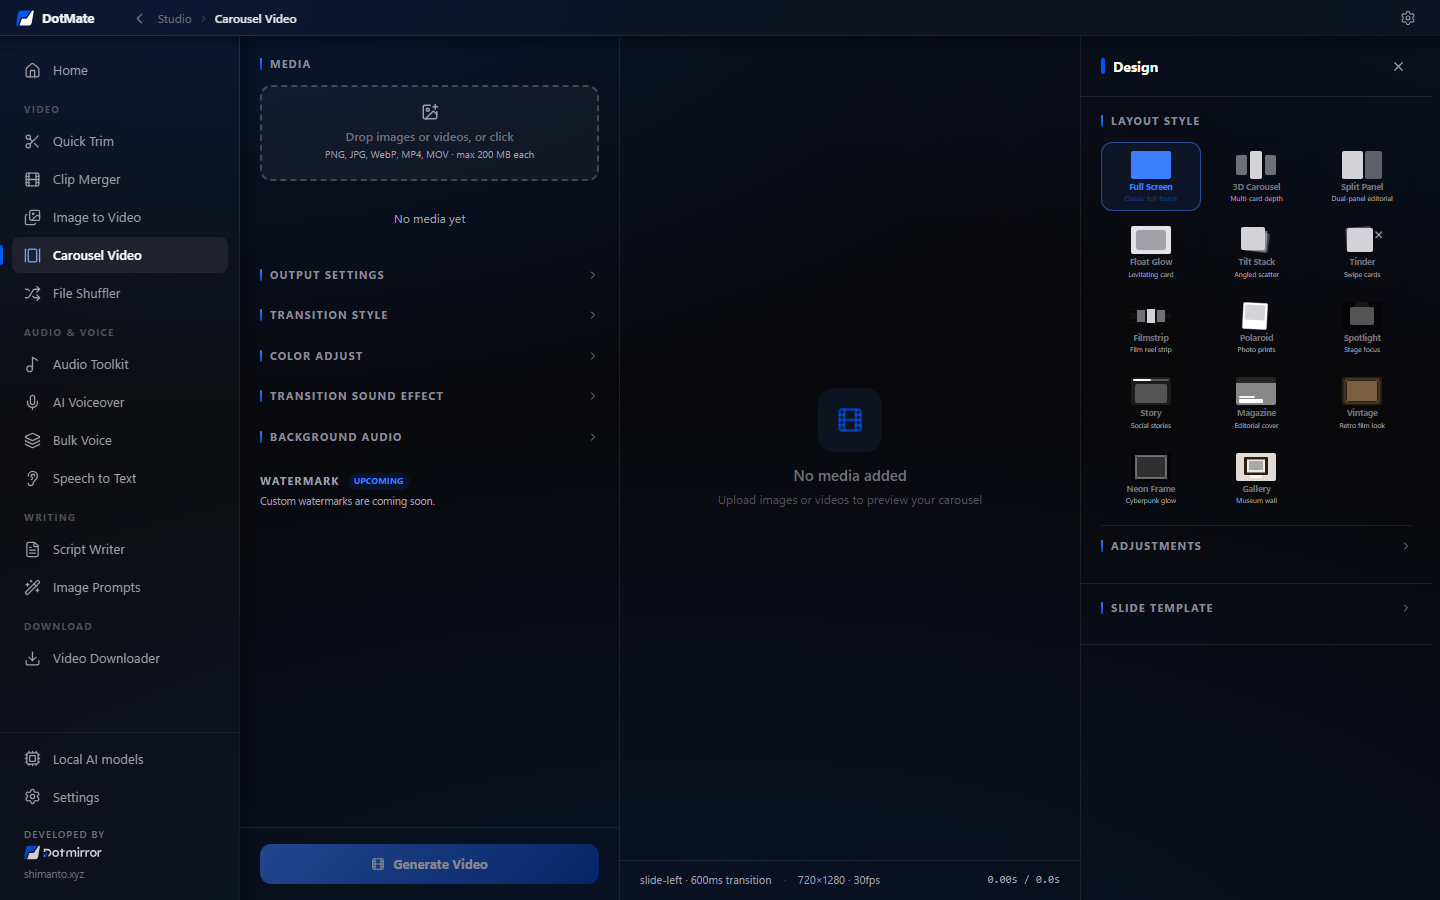
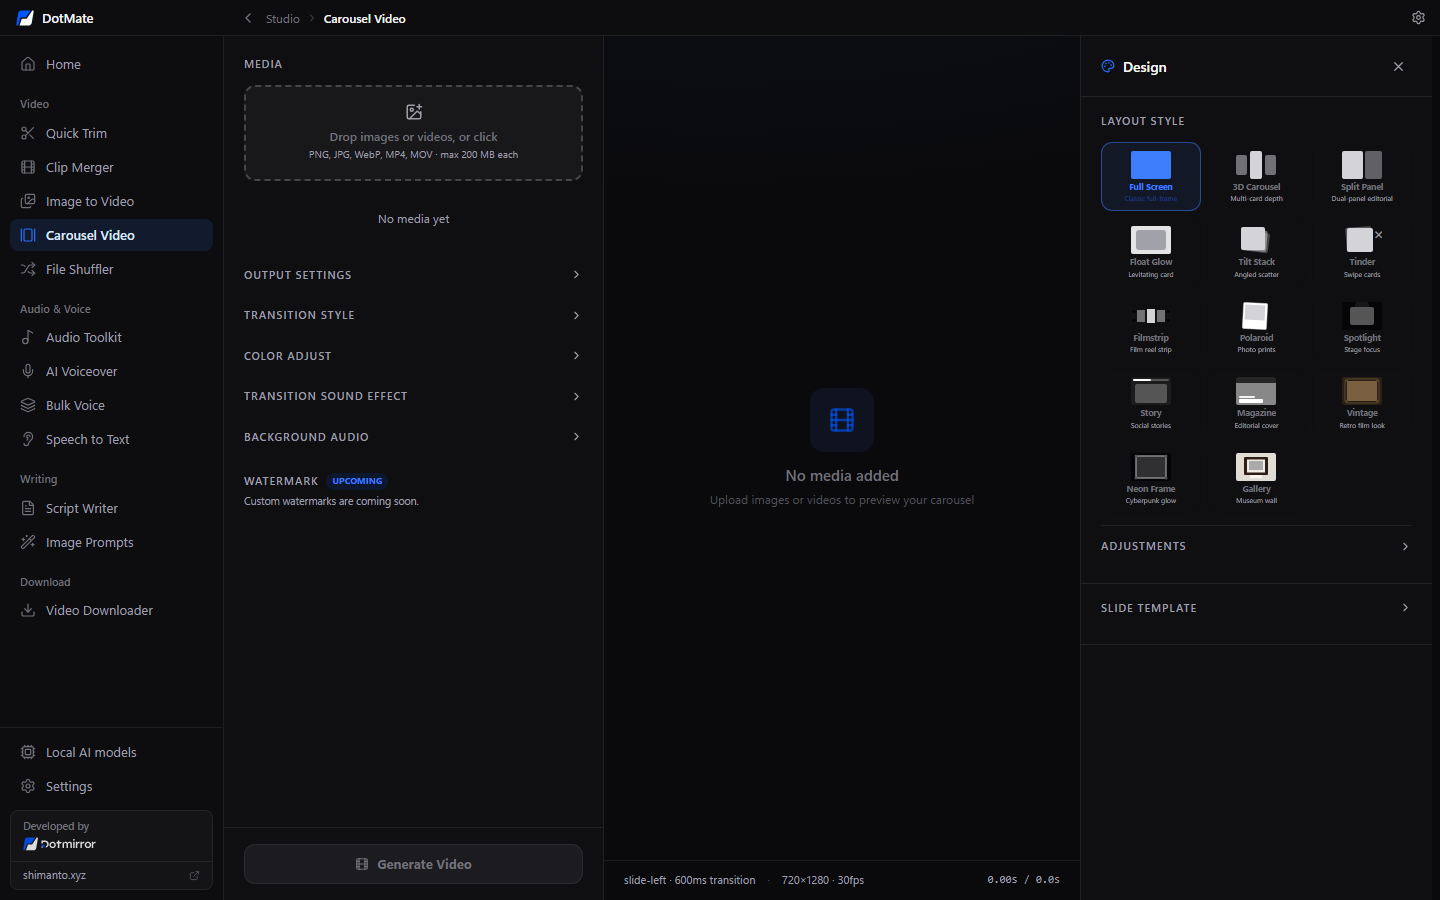
docs: new screenshots, social preview and API-key wording
- Retake all nine README/site screenshots and the social preview in the new
  design.
- "No cloud" -> "No cloud required" everywhere, and document the optional
  API-key brains in the README, website, architecture notes and changelog.

diff --git a/docs/index.html b/docs/index.html
@@ -4,7 +4,7 @@
 <meta charset="utf-8">
 <meta name="viewport" content="width=device-width, initial-scale=1">
 <title>DotMate — Free Offline Video, Voice &amp; AI Toolbox for Creators (Open Source)</title>
-<meta name="description" content="DotMate is a free, open-source Windows app for creators: trim and merge videos, image and carousel to video, YouTube &amp; TikTok downloader, offline Whisper speech-to-text, Kokoro text-to-speech and local AI script writing. No account, no cloud.">
+<meta name="description" content="DotMate is a free, open-source Windows app for creators: trim and merge videos, image and carousel to video, YouTube &amp; TikTok downloader, offline Whisper speech-to-text, Kokoro text-to-speech and local AI script writing. No account, no cloud required.">
 <meta name="keywords" content="free video editor, offline text to speech, whisper speech to text app, kokoro tts, youtube downloader gui, yt-dlp gui, image to video, carousel video maker, ai script writer, ollama, local ai, open source, windows, content creator tools">
 <meta name="author" content="Shimanto, DotMirror">
 <meta name="robots" content="index, follow, max-image-preview:large">
@@ -25,7 +25,7 @@
 <meta property="og:image:alt" content="DotMate app screenshot and logo">
 <meta name="twitter:card" content="summary_large_image">
 <meta name="twitter:title" content="DotMate — Free Offline Video, Voice & AI Toolbox">
-<meta name="twitter:description" content="Open-source creator toolbox that runs 100% on your computer. No account, no cloud.">
+<meta name="twitter:description" content="Open-source creator toolbox that runs 100% on your computer. No account, no cloud required.">
 <meta name="twitter:image" content="https://shimentosh.github.io/dotmate/assets/social-preview.png">
 
 <script type="application/ld+json">
@@ -245,7 +245,7 @@ footer nav{display:flex;gap:18px;flex-wrap:wrap}
       <a class="btn btn-primary" href="https://github.com/shimentosh/dotmate/releases/latest"><svg aria-hidden="true"><use href="#i-dl"/></svg>Download for Windows</a>
       <a class="btn btn-ghost" href="https://github.com/shimentosh/dotmate"><svg aria-hidden="true"><use href="#i-gh"/></svg>Star on GitHub</a>
     </div>
-    <p class="meta">Windows 10 &amp; 11 · ~12 MB installer · No account · No cloud · No telemetry</p>
+    <p class="meta">Windows 10 &amp; 11 · ~12 MB installer · No account · No cloud required · No telemetry</p>
     <img class="shot" src="assets/screenshots/home.png" width="1440" height="900" alt="DotMate home screen with video, audio, voice, writing and download tools" fetchpriority="high">
     <div class="strip">
       <div><strong>12</strong><span>tools in one app</span></div>
@@ -319,7 +319,7 @@ footer nav{display:flex;gap:18px;flex-wrap:wrap}
     <div class="split">
       <ul class="list">
         <li><svg><use href="#i-check"/></svg><div><b>No account, no login</b><span>Open the app and start working.</span></div></li>
-        <li><svg><use href="#i-check"/></svg><div><b>No uploads, no telemetry</b><span>The app's security policy blocks every remote connection except a local Ollama.</span></div></li>
+        <li><svg><use href="#i-check"/></svg><div><b>No uploads, no telemetry</b><span>The app's security policy blocks every remote connection except a local Ollama. Cloud AI is strictly optional — it only runs if you add your own API key.</span></div></li>
         <li><svg><use href="#i-check"/></svg><div><b>Works offline</b><span>After setup, every tool except the downloader works without internet.</span></div></li>
         <li><svg><use href="#i-check"/></svg><div><b>Open source</b><span>Every line is on GitHub under the MIT licence — audit it, fork it, improve it.</span></div></li>
       </ul>
@@ -328,7 +328,7 @@ footer nav{display:flex;gap:18px;flex-wrap:wrap}
         <tbody>
           <tr><td>Speech to text</td><td>whisper.cpp <small>· tiny / base / small</small></td></tr>
           <tr><td>Text to speech</td><td>Kokoro-82M via sherpa-onnx <small>· ~330 MB</small></td></tr>
-          <tr><td>Script writing</td><td>Ollama (Llama 3.2, Qwen 2.5…) or Claude Code / Codex / Gemini CLI</td></tr>
+          <tr><td>Script writing</td><td>Ollama (Llama 3.2, Qwen 2.5…) or Claude Code / Codex / Gemini CLI — or, optionally, your own Claude, OpenAI, Gemini or OpenRouter API key</td></tr>
           <tr><td>Video &amp; audio</td><td>WebCodecs + FFmpeg</td></tr>
           <tr><td>Downloads</td><td>yt-dlp</td></tr>
         </tbody>
@@ -363,7 +363,8 @@ pnpm tauri:build</pre>
       <details><summary>Is DotMate really free?</summary><p>Yes. DotMate is free and open source under the MIT licence. There are no credits, watermarks, accounts or paid tiers.</p></details>
       <details><summary>Does DotMate work offline?</summary><p>Yes. After a one-time download of FFmpeg and the AI models you choose, every tool except the Video Downloader works without internet.</p></details>
       <details><summary>Are my videos or voice recordings uploaded?</summary><p>No. All processing happens on your computer. DotMate has no server, no login and no telemetry.</p></details>
-      <details><summary>Do I need a GPU for the AI tools?</summary><p>No. Whisper and Kokoro run on a normal CPU. Ollama models run faster with a GPU, but small models like Llama 3.2 3B work on most modern laptops.</p></details>
+      <details><summary>Can I use ChatGPT, Claude or Gemini instead of a local model?</summary><p>Yes, optionally. Paste your own API key in Settings → API Keys and that model appears in the writing tools. Only the text you write is sent to that provider — your videos and audio never leave your computer. Remove the key any time to go back to fully local.</p></details>
+<details><summary>Do I need a GPU for the AI tools?</summary><p>No. Whisper and Kokoro run on a normal CPU. Ollama models run faster with a GPU, but small models like Llama 3.2 3B work on most modern laptops.</p></details>
       <details><summary>Is it an alternative to CapCut, Descript or ElevenLabs?</summary><p>For many everyday jobs — batch trimming, slideshows, carousel videos, voiceovers and transcripts — yes, and it runs offline. It is not a full timeline editor.</p></details>
       <details><summary>Does it work on macOS or Linux?</summary><p>Windows 10 and 11 are supported today. macOS and Linux builds are on the roadmap — contributions welcome!</p></details>
     </div>

diff --git a/README.md b/README.md
@@ -8,7 +8,7 @@
 
 **Trim and merge videos, turn images into videos, download from YouTube & TikTok, transcribe with Whisper, generate voiceovers with Kokoro TTS and write scripts with a local LLM — all in one desktop app that runs 100% on your own computer.**
 
-No account. No subscription. No cloud. No telemetry. Open source under the MIT licence.
+No account. No subscription. No cloud required. No telemetry. Open source under the MIT licence.
 
 [![License: MIT](https://img.shields.io/badge/License-MIT-0057FC.svg)](LICENSE)
 [![Platform: Windows | macOS](https://img.shields.io/badge/platform-Windows%20%7C%20macOS-0078D6?logo=windows&logoColor=white)](#-download--install)
@@ -49,13 +49,15 @@ No account. No subscription. No cloud. No telemetry. Open source under the MIT l
 Most creator tools live in the browser, need an account, upload your files to a
 server, and put the useful parts behind a paywall. **DotMate** is the opposite:
 
-- 🔒 **Private by design** — your videos, audio and scripts never leave your computer.
+- 🔒 **Private by design** — your videos, audio and scripts never leave your computer
+  (unless you choose to plug in your own cloud AI key — it's off by default).
 - 💸 **Free forever** — no credits, no watermark, no subscription, no "pro" tier.
 - ✈ **Works offline** — after a one-time download of FFmpeg and the models you pick,
   every tool except the Video Downloader works without internet.
 - 🧠 **Local AI** — speech-to-text with [Whisper](https://github.com/ggml-org/whisper.cpp),
   text-to-speech with [Kokoro](https://huggingface.co/hexgrad/Kokoro-82M), and script
-  writing with [Ollama](https://ollama.com) or the Claude Code / Codex / Gemini CLIs you already use.
+  writing with [Ollama](https://ollama.com) or the Claude Code / Codex / Gemini CLIs you already use —
+  or, if you prefer, **your own API key** for Claude, OpenAI, Gemini or OpenRouter.
 - ⚡ **Fast and small** — a ~12 MB installer built on [Tauri 2](https://tauri.app) and Rust,
   with hardware-accelerated video encoding through WebCodecs where your PC supports it.
 - 🧰 **12 tools in one app** — replace a handful of websites and single-purpose apps.
@@ -81,7 +83,7 @@ server, and put the useful parts behind a paywall. **DotMate** is the opposite:
 | **Bulk Voice** | Turn many scripts into many voice files in one run. |
 | **Speech to Text** | Transcribe audio, video or a microphone recording with on-device Whisper (tiny / base / small models). |
 
-### ✍ Writing (local LLM)
+### ✍ Writing (local LLM or your own API key)
 
 | Tool | What it does |
 |---|---|
@@ -94,9 +96,10 @@ server, and put the useful parts behind a paywall. **DotMate** is the opposite:
 |---|---|
 | **Video Downloader** | Download videos and audio from YouTube, TikTok, Instagram, X (Twitter) and [1000+ sites supported by yt-dlp](https://github.com/yt-dlp/yt-dlp/blob/master/supportedsites.md) — playlists, sections and optional cookies.txt. |
 
-**Plus:** a guided first-run setup, light & dark themes, a render dock that keeps
-progress visible while you switch tools, a guard that stops you from losing a
-running export, and minimise-to-tray.
+**Plus:** a guided first-run setup, tool search on the home screen (<kbd>Ctrl</kbd>+<kbd>K</kbd>),
+light & dark themes, a render dock that keeps progress visible while you switch
+tools, a guard that stops you from losing a running export, and minimise-to-tray.
+Missing a tool? Click **Request a tool** on the home screen.
 
 ## 📸 Screenshots
 
@@ -166,14 +169,25 @@ first-run downloads.
 | Text to speech (optional) | [Supertonic 3](https://github.com/supertone-inc/supertonic) | — | Self-hosted archive ([how](docs/BUILDING.md#optional-supertonic-voices)) |
 | Script writing | [Ollama](https://ollama.com) (Llama 3.2, Qwen 2.5, any chat model) | your choice | Installed from Settings → Local AI → Brain |
 | Script writing | Claude Code, Codex CLI or Gemini CLI | — | Install and sign in yourself; DotMate detects them |
+| Script writing (optional, cloud) | Your own API key — Anthropic, OpenAI, Google Gemini, OpenRouter or any OpenAI-compatible endpoint | — | Settings → **API Keys**; nothing is enabled until you add a key |
 
 CLI "brains" run in read-only / plan mode with the prompt on stdin, inside a scratch
 folder — they cannot touch your files.
+
+**Bring your own API key (optional).** If your computer is too slow for a local model,
+paste an API key in **Settings → API Keys** and the provider appears in Script Writer
+and Script → Image Prompts under *Your API keys (cloud)*. Usage is billed to your own
+account; DotMate adds nothing on top.
 
 ## 🔒 Privacy
 
 - The UI **never talks to a remote server**. Its only network access is to a local
   Ollama (`localhost`); the Content-Security-Policy blocks everything else.
+- **Optional cloud AI is strictly opt-in.** Only if you save an API key in
+  Settings → API Keys *and* pick that model does the text of your topic / script go
+  — directly from your PC, via the Rust side — to the provider you chose. Your videos
+  and audio never do. Keys are stored only on your computer, are never shown again in
+  the app, and are never sent anywhere except that provider.
 - All downloads (FFmpeg, yt-dlp, models) are made by the Rust side from the
   official URLs listed in [`src-tauri/src/sources.rs`](src-tauri/src/sources.rs).
 - No analytics, no crash reporting, no login. Settings live on your PC.
@@ -246,7 +260,18 @@ except Video Downloader works without an internet connection.
 <summary><b>Do my files get uploaded anywhere?</b></summary>
 
 No. All processing happens on your computer. The app has no server and no
-telemetry.
+telemetry. The one exception is opt-in: if you add your own API key and choose a
+cloud model for Script Writer or Script → Image Prompts, the text you write is sent
+to that provider. Videos and audio are never uploaded.
+</details>
+
+<details>
+<summary><b>Can I use ChatGPT, Claude or Gemini instead of a local model?</b></summary>
+
+Yes — optionally. Open **Settings → API Keys**, paste a key for Anthropic, OpenAI,
+Google Gemini, OpenRouter or any OpenAI-compatible endpoint, and press
+**Save & test**. That model then shows up in the writing tools. Remove the key any
+time to go back to fully local.
 </details>
 
 <details>

diff --git a/docs/ARCHITECTURE.md b/docs/ARCHITECTURE.md
@@ -31,6 +31,7 @@ dotmate/
 │       ├── whisper_command.rs   model download + transcription
 │       ├── tts_command.rs       Kokoro / Supertonic download + synthesis
 │       ├── cli_brain_command.rs Claude Code / Codex / Gemini CLI runner
+│       ├── api_brain_command.rs optional bring-your-own-key cloud brains
 │       ├── staging.rs           raw-body IPC, chunked uploads, temp clip sink
 │       ├── fs_command.rs        open / reveal / copy / save / read / delete
 │       ├── security.rs          path confinement, no-shell open/reveal
@@ -49,14 +50,19 @@ dotmate/
 | Video Downloader | yt-dlp + FFmpeg | Rust → yt-dlp process |
 | Speech to Text | whisper.cpp (`crates/whisper`) | Rust, in-process |
 | AI Voiceover, Bulk Voice | Kokoro / Supertonic (`crates/tts`, `crates/supertonic`) | Rust, in-process |
-| Script Writer, Script to Image Prompts | Ollama (HTTP on localhost) or a CLI | WebView → Ollama, or Rust → CLI process |
+| Script Writer, Script to Image Prompts | Ollama (HTTP on localhost), a CLI, or (opt-in) the user's own API key | WebView → Ollama, Rust → CLI process, or Rust → provider HTTPS |
 
 ## Key design decisions
 
-- **No server, no cloud.** The only HTTP calls from the WebView go to a local
+- **No server, no cloud by default.** The only HTTP calls from the WebView go to a local
   Ollama (`http://localhost:11434` by default, configurable). The CSP in
   `src-tauri/tauri.conf.json` allows `http://localhost:*` and
   `http://127.0.0.1:*` and nothing else remote.
+- **Opt-in API brains.** If the user saves an API key in Settings → API Keys,
+  `api_brain_command.rs` calls that provider from Rust (the CSP stays
+  localhost-only). Keys live in `<app-data>/secrets/`, are write-only from the UI
+  (only the last 4 characters are ever returned), and `security.rs` refuses that
+  folder in every file command so a key can't be read back over IPC.
 - **All downloads in Rust.** FFmpeg, yt-dlp, models and the Ollama installer are
   fetched from the URLs in `src-tauri/src/sources.rs` into the app-data folder
   (`%APPDATA%\com.dotmirror.dotmate\` → `bin\`, `models\whisper\`,

diff --git a/CHANGELOG.md b/CHANGELOG.md
@@ -6,6 +6,29 @@ All notable changes to DotMate are documented here. The format follows
 
 ## [Unreleased]
 
+### Added
+
+- **Bring your own API key (optional).** New **Settings → API Keys** page: paste a
+  key for Anthropic (Claude), OpenAI, Google Gemini, OpenRouter or any
+  OpenAI-compatible endpoint and that model appears in Script Writer and
+  Script → Image Prompts under *Your API keys (cloud)*. Off until you add a key.
+  Keys stay on your computer, are never shown again in the app, and requests go
+  straight from your PC to the provider you chose.
+- **Tool search** on the home screen — press <kbd>Ctrl</kbd>+<kbd>K</kbd> or <kbd>/</kbd>.
+- **Request a tool** and **Follow** links on the home screen.
+
+### Changed
+
+- **Refreshed design across the whole app:** calmer colours from one shared set of
+  design tokens, a cleaner sidebar and title bar, solid surfaces instead of glass
+  effects, consistent buttons, inputs, toggles and section labels, and neutral
+  disabled buttons that stay readable in dark mode.
+- The first-run setup screen now uses the DotMate blue instead of purple.
+
+### Security
+
+- The app's file commands can no longer read, delete or copy the stored API keys.
+
 ## [0.1.2] — 2026-10-05
 
 ### Fixed
